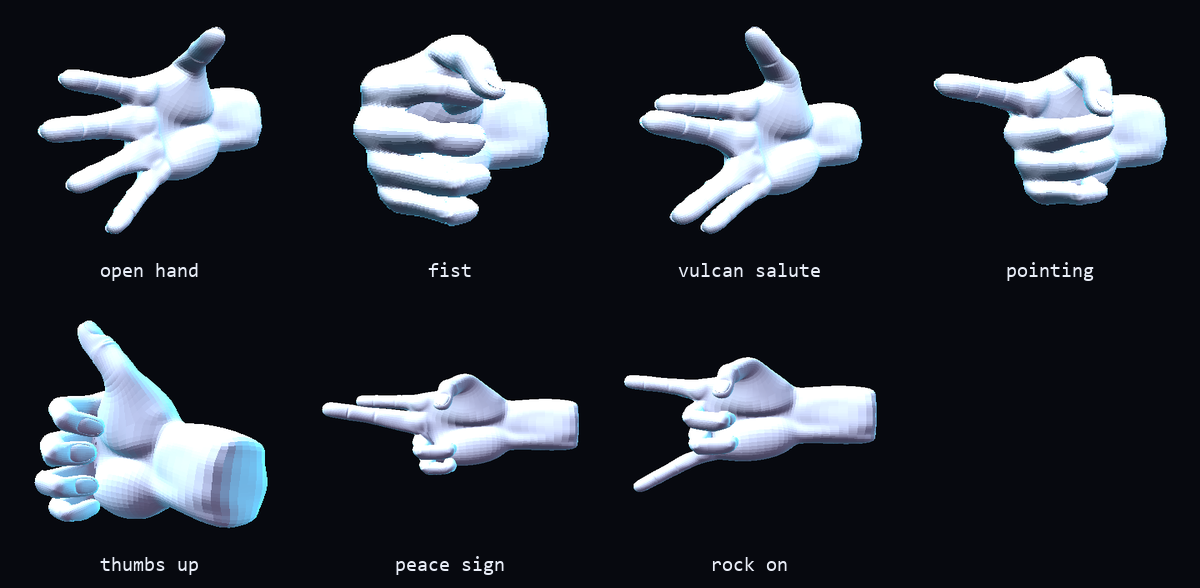
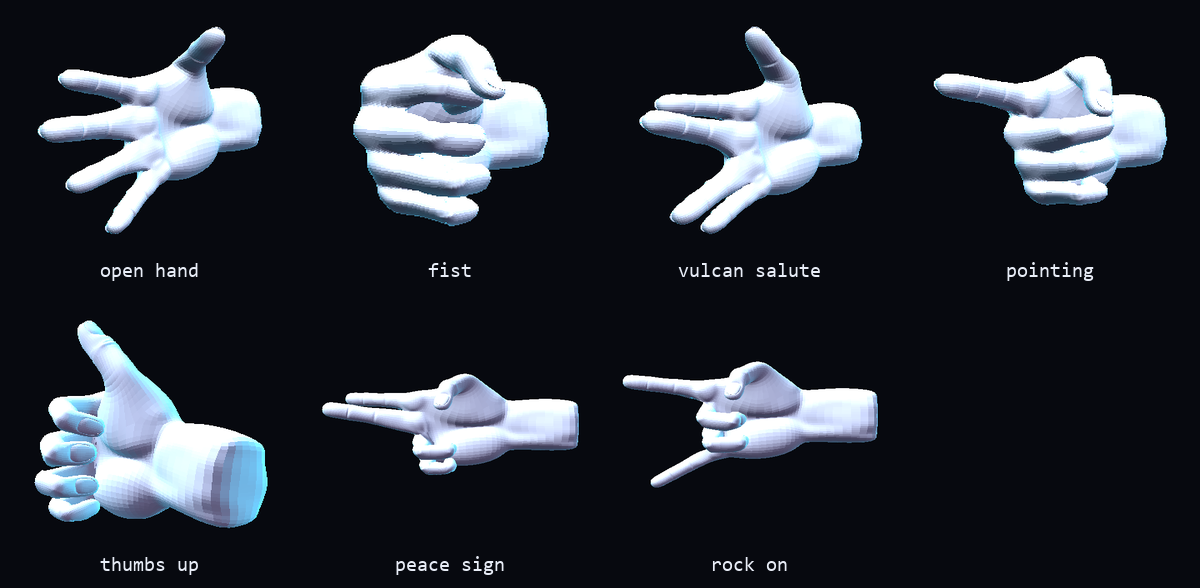
hand3d: corrige o bulge feio no peace sign (girava o osso errado)
O girarZ da abducao (commit anterior) estava rotacionando cadeia[0], que
pro indicador e Bone004 — o METACARPO, nunca animado em nenhuma das 4
poses reais e com a malha da palma bem colada nele. Girar ele em vez da
falange proximal (Bone016, onde eu de fato testei o eixo) esticava a
palma toda perto da base do dedo, criando o bulge/dedo gigante.

Corrigido pra girar cadeia[1] (a falange proximal) — mesmo osso testado
na investigacao do eixo. Peace sign agora mostra um V limpo, sem
distorcao de malha. gestures.png regerado.

Changed region(s): [[0.5242, 0.6122, 0.74, 0.8571], [0.2775, 0.6429, 0.4008, 0.7347]]

diff --git a/hand3d/web/hand.js b/hand3d/web/hand.js
@@ -289,17 +289,20 @@
         if (!b) return;
         b.quaternion.copy(qDe[nomeOsso]).slerp(qPara[nomeOsso], t);
       });
-      // abducao extra (separar/juntar o dedo do vizinho) — gira so o osso
-      // proximal (primeiro da cadeia) no eixo Z local dele, em graus. Achado
-      // por tentativa: Z e o eixo que move o dedo pro lado (X curva/estica,
-      // Y torce em volta do proprio comprimento). Sem isto, indicador e
-      // medio saem quase colados no peace sign (a spock so separa dedo 2-3
-      // do 4-5, nao afasta indicador do medio dentro do mesmo par).
-      if (typeof spec === 'object' && spec.girarZ) {
-        var osso0 = porNome[cadeia[0]];
+      // abducao extra (separar/juntar o dedo do vizinho) — gira a FALANGE
+      // PROXIMAL (segundo osso da cadeia — o primeiro e o metacarpo, que
+      // nunca e animado em nenhuma das 4 poses e tem a malha da palma
+      // colada nele; girar ele em vez do proximal estica a palma toda e
+      // faz um bulge horrivel) no eixo Z local dela. Achado por tentativa:
+      // Z move o dedo pro lado, X curva/estica, Y torce em volta do
+      // proprio comprimento. Sem isto, indicador e medio saem quase
+      // colados no peace sign (a spock separa o par 2-3 do par 4-5, mas
+      // nao afasta indicador do medio dentro do mesmo par).
+      if (typeof spec === 'object' && spec.girarZ && cadeia.length > 1) {
+        var ossoProximal = porNome[cadeia[1]];
         var qZ = new THREE.Quaternion().setFromAxisAngle(
           new THREE.Vector3(0, 0, 1), spec.girarZ * Math.PI / 180);
-        osso0.quaternion.multiply(qZ);
+        ossoProximal.quaternion.multiply(qZ);
       }
     });
 
